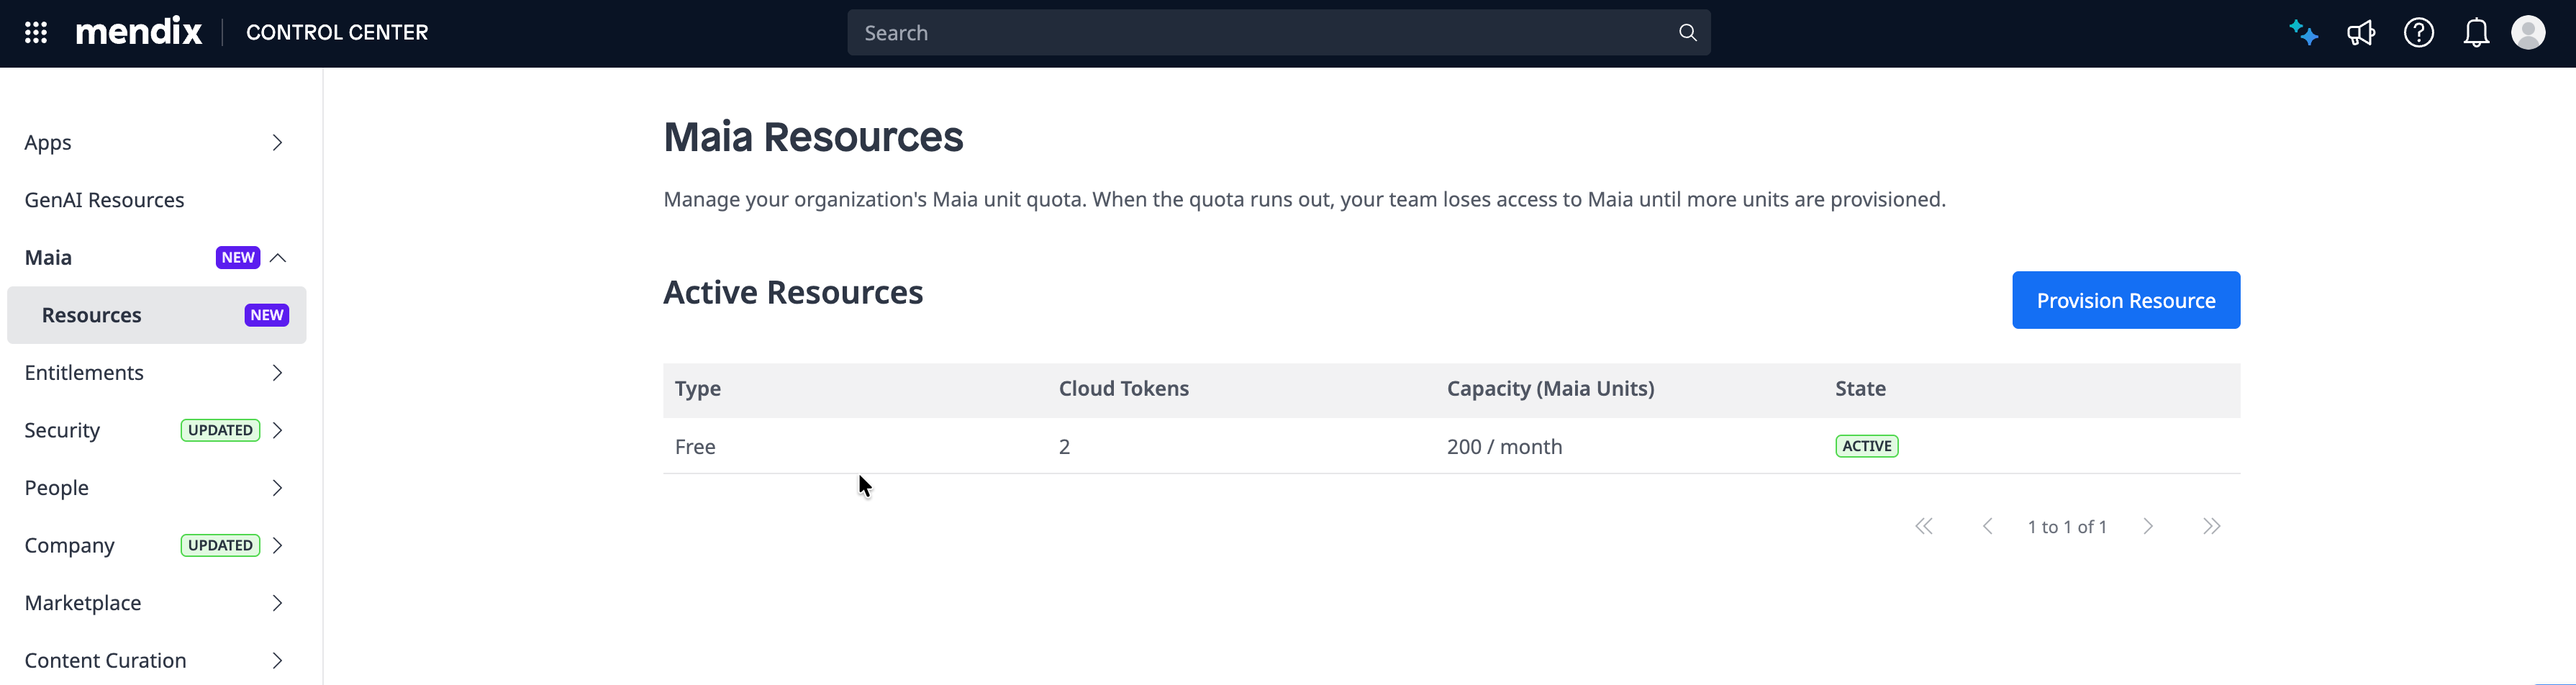
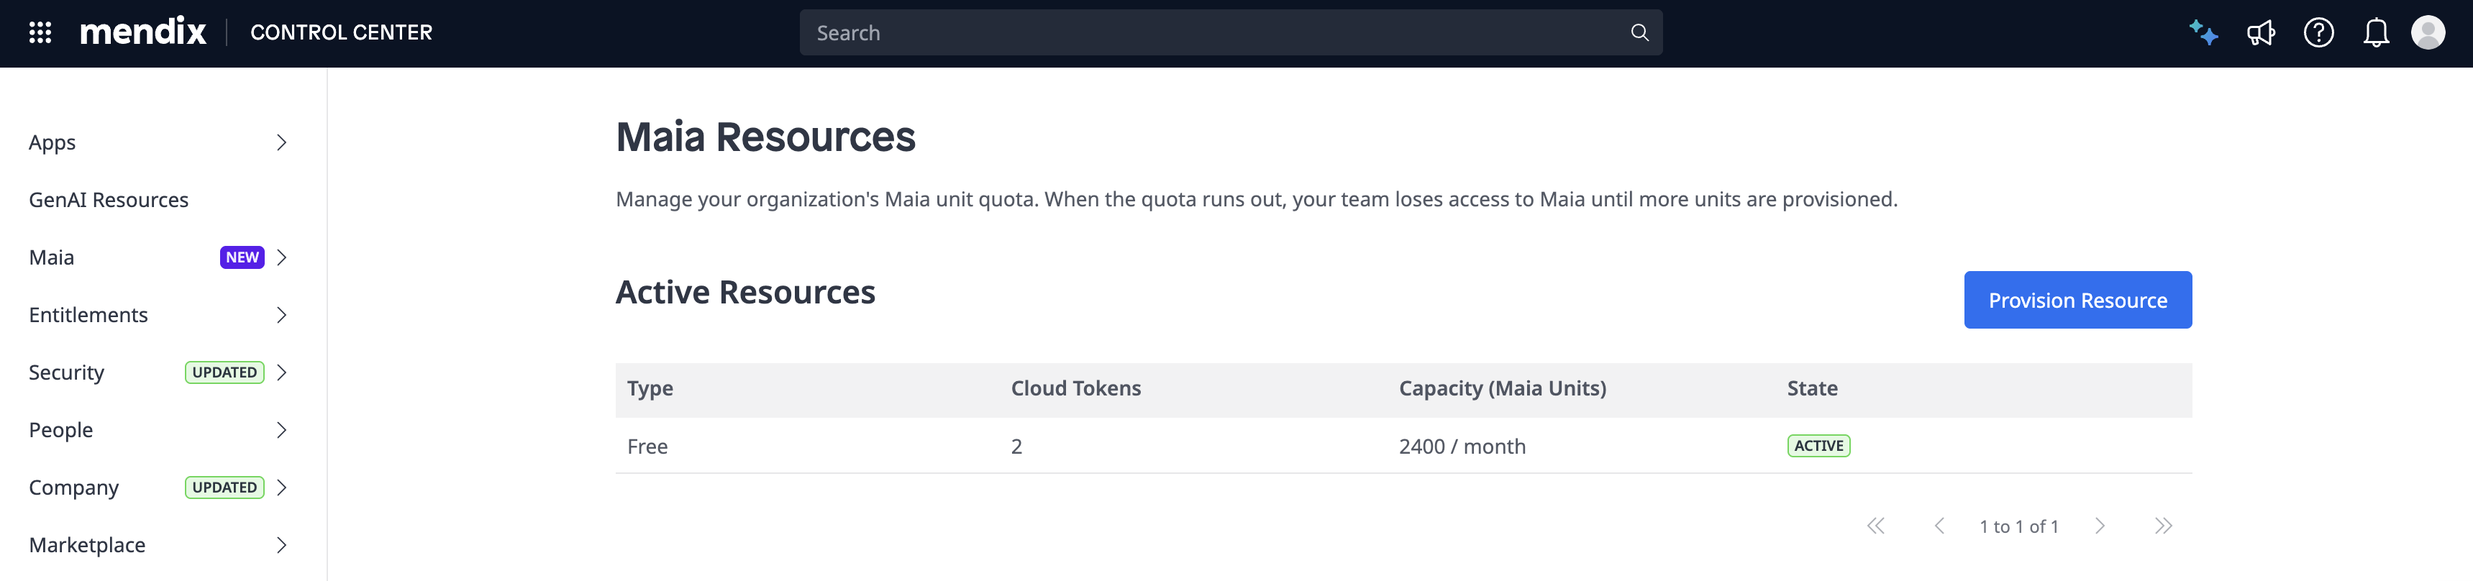
Update usage limit

diff --git a/content/en/docs/refguide/mendix-ai-assistance/_index.md b/content/en/docs/refguide/mendix-ai-assistance/_index.md
@@ -27,7 +27,7 @@ For more information on how to ensure optimal performance of Maia, see the [Best
 
 ## Maia Usage Limits {#maia-usage}
 
-To ensure a reliable experience with Maia, Mendix provides two ways to manage your usage: purchasing Maia Units and configuring a custom AI provider of your choice. Every company receives 200 free units per month and can purchase more as needed.
+To ensure a reliable experience with Maia, Mendix provides two ways to manage your usage: purchasing Maia Units and configuring a custom AI provider of your choice. Every company receives 2400 free units per month and can purchase more as needed.
 
 When your free Maia Units allocation or purchased Maia Units have been consumed, you receive a notification in Studio Pro indicating that you need to take action before you can use Maia Make again. Your allocation resets at the start of each month. To increase your capacity, you can purchase additional Maia Units. For more information on purchasing Maia Units, see [Increasing Your Maia Usage Capacity](/control-center/maia-resources/#increase-maia-units). 
 
